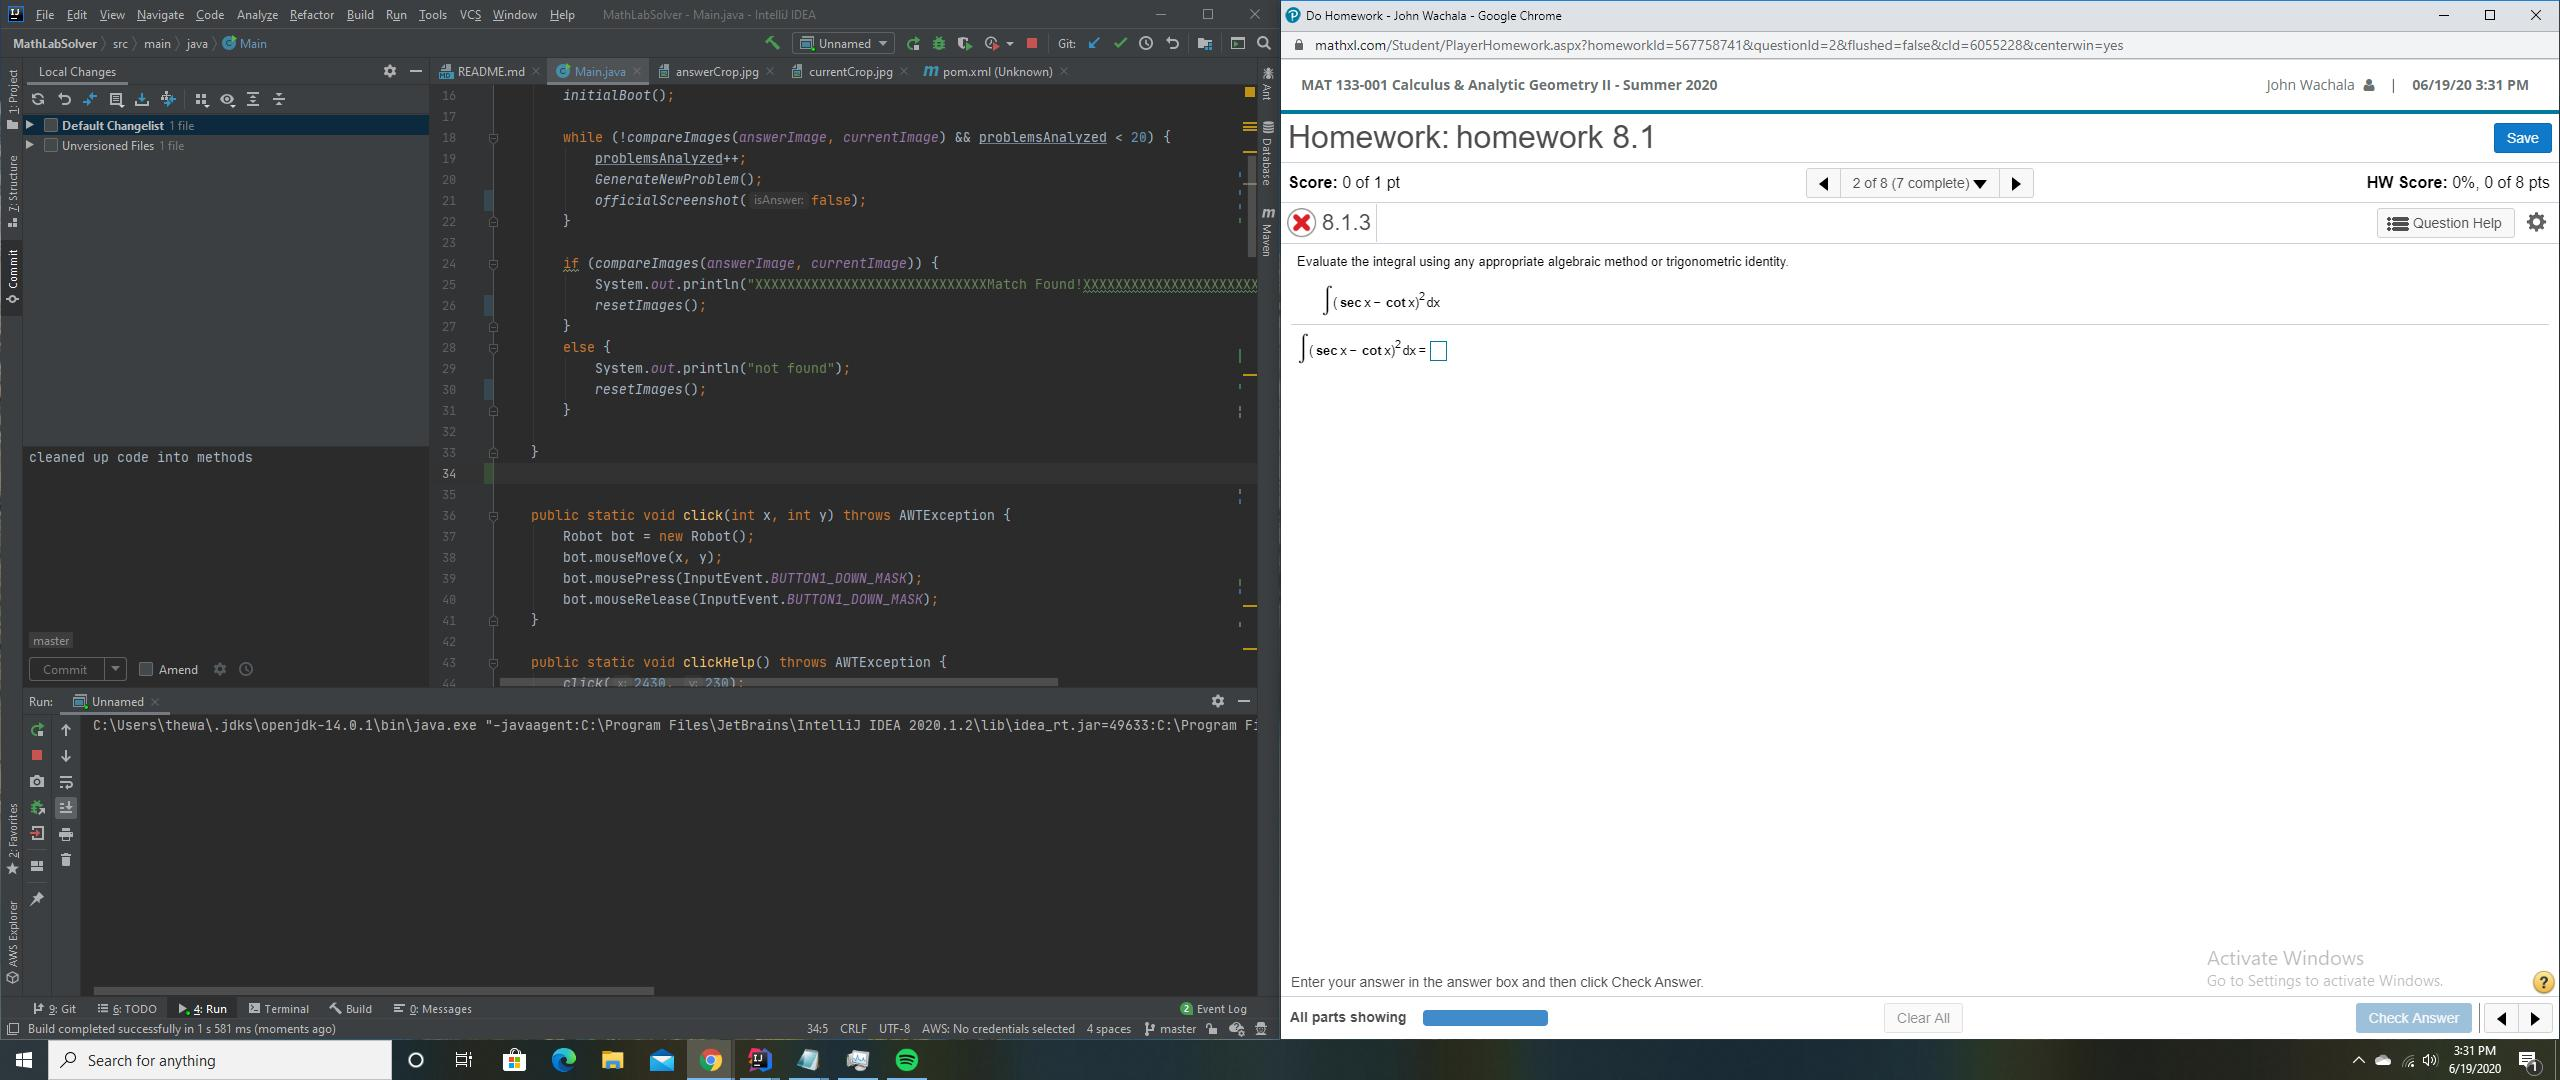
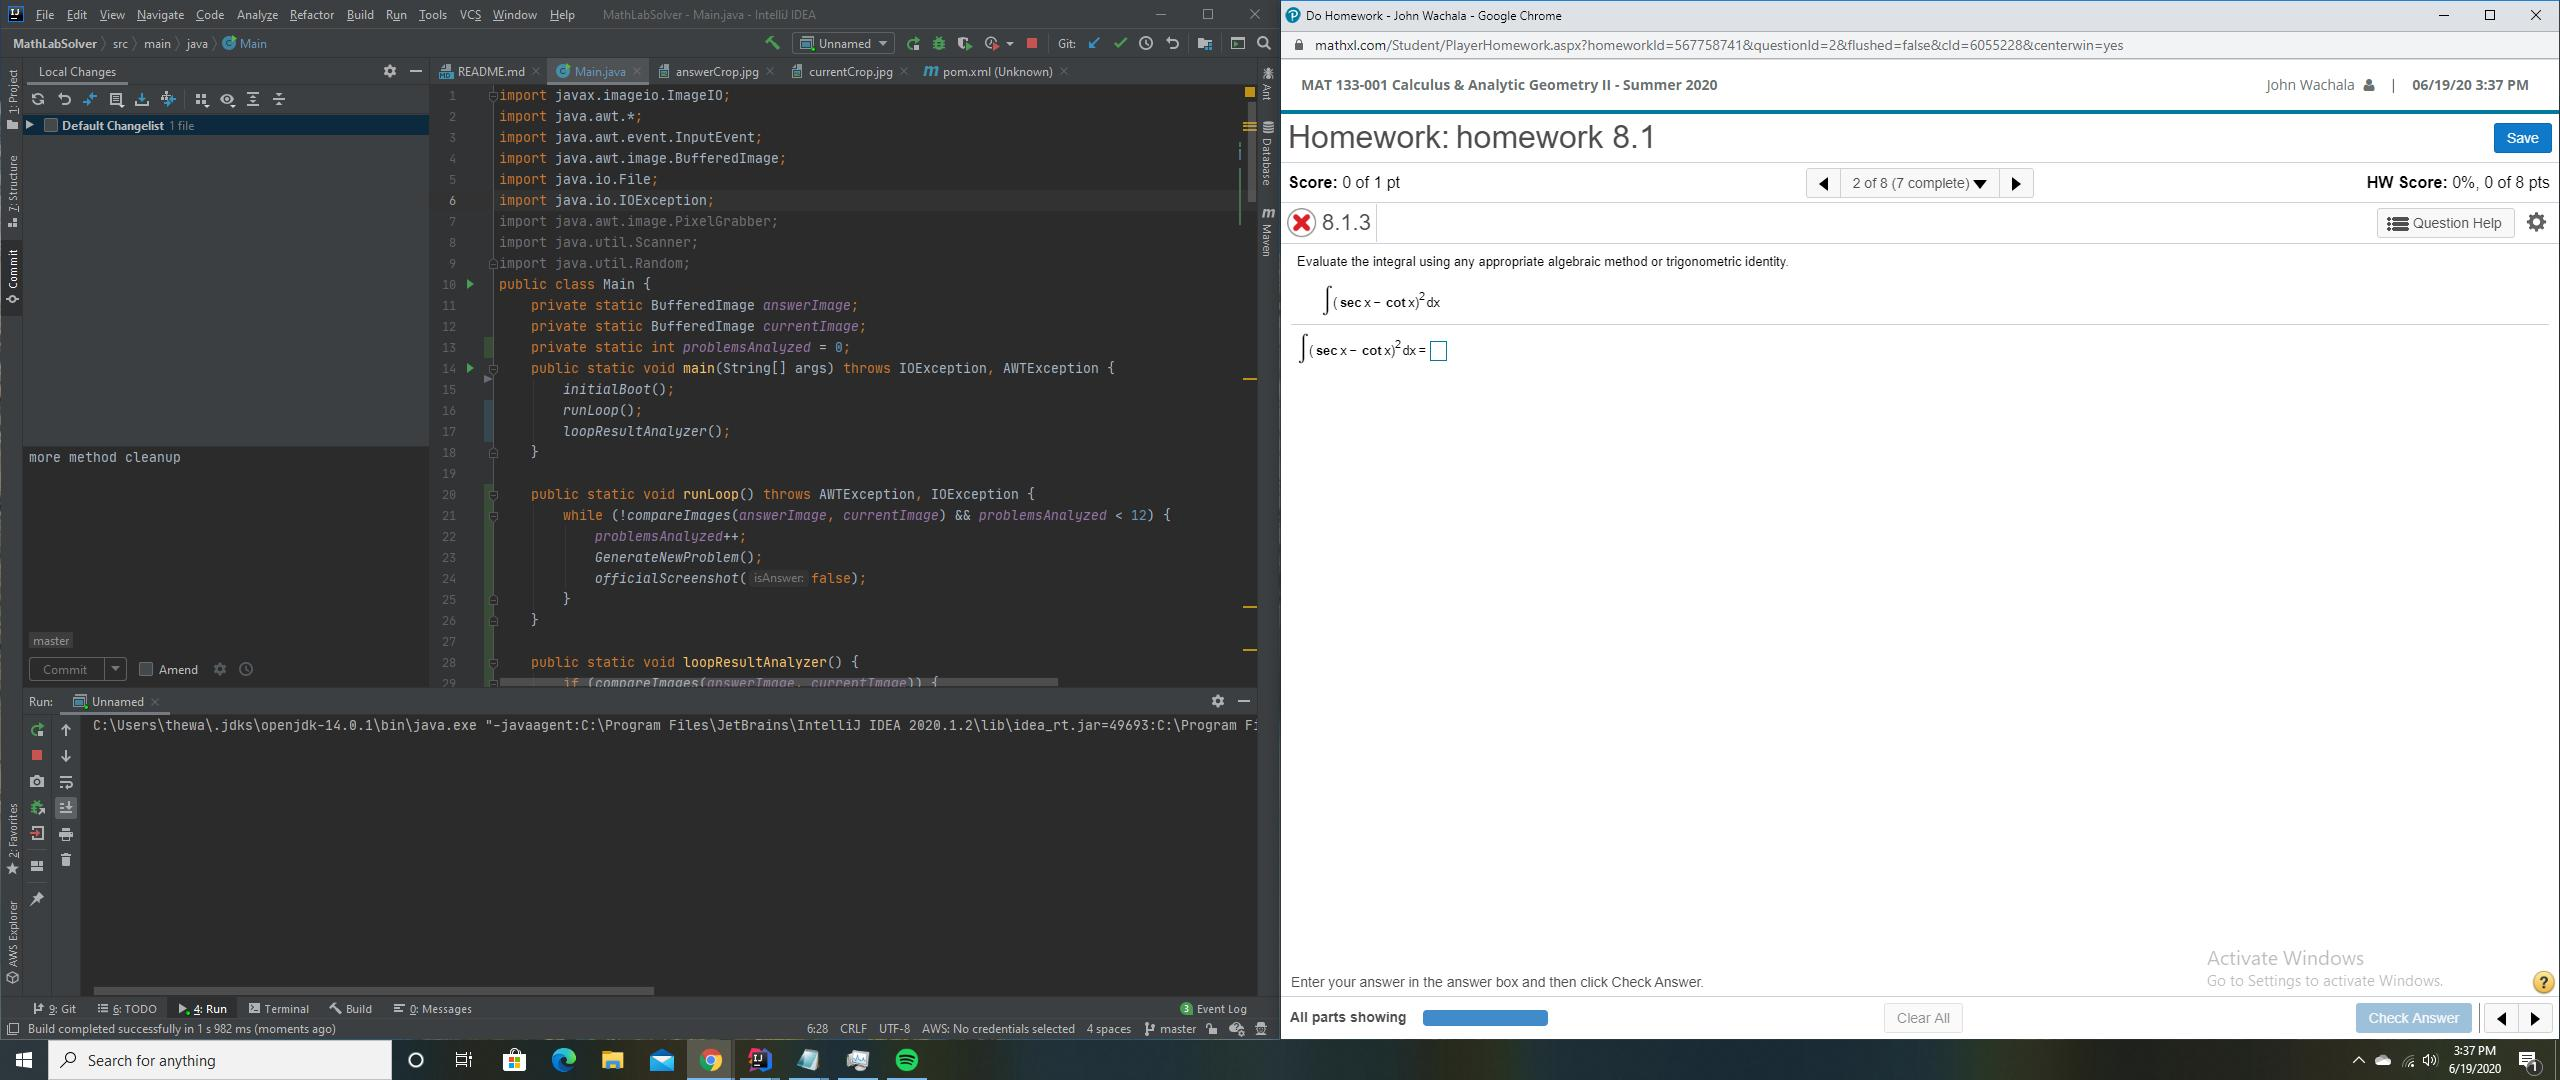
cleaned up main method

diff --git a/src/main/java/Main.java b/src/main/java/Main.java
@@ -10,28 +10,30 @@ import java.util.Random;
 public class Main {
     private static BufferedImage answerImage;
     private static BufferedImage currentImage;
+    private static int problemsAnalyzed = 0;
     public static void main(String[] args) throws IOException, AWTException {
-        int problemsAnalyzed = 0;
-        Robot robot = new Robot();
         initialBoot();
+        runLoop();
+        loopResultAnalyzer();
+    }
 
-        while (!compareImages(answerImage, currentImage) && problemsAnalyzed < 20) {
+    public static void runLoop() throws AWTException, IOException {
+        while (!compareImages(answerImage, currentImage) && problemsAnalyzed < 12) {
             problemsAnalyzed++;
             GenerateNewProblem();
             officialScreenshot(false);
         }
+    }
 
+    public static void loopResultAnalyzer() {
         if (compareImages(answerImage, currentImage)) {
             System.out.println("XXXXXXXXXXXXXXXXXXXXXXXXXXXXXMatch Found!XXXXXXXXXXXXXXXXXXXXXXXXXXXXXXXXXXXXXXXXXXXX");
-            resetImages();
         }
         else {
             System.out.println("not found");
-            resetImages();
         }
-
+        resetImages();
     }
-
 
     public static void click(int x, int y) throws AWTException {
         Robot bot = new Robot();
